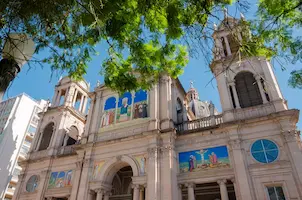
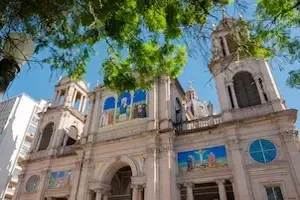
Create script for the card items and start styling them

diff --git a/chamber/scripts/discover.js b/chamber/scripts/discover.js
@@ -1,3 +1,51 @@
 import { interestItems } from "../data/interest-items.mjs";
 
-console.log(interestItems);
+// console.log(interestItems);
+
+const itemCards = document.querySelector("#itemCards");
+
+function displayItems(itemsArray) {
+    itemsArray.forEach(element => {
+        console.log(element);
+
+        const title = document.createElement("h2");
+        title.textContent = element.name;
+        
+        const figure = document.createElement("img");
+        figure.src = `images/${element.photo_url}`;
+        figure.alt = element.name;
+        figure.id = "teste";
+
+        const address = document.createElement("span");
+        address.textContent = element.address;
+
+        const paragraph = document.createElement("p");
+        paragraph.textContent = element.description;
+
+
+        const button = document.createElement("button");
+        button.textContent = "Learn More";
+
+
+
+        itemCards.appendChild(title);
+        itemCards.appendChild(figure);
+        itemCards.appendChild(address);
+        itemCards.appendChild(paragraph);
+        itemCards.appendChild(button);
+    });
+
+}
+
+displayItems(interestItems);
+
+// itemCards.innerHTML = `
+//     <section>
+//         <h2>Mario Quintana</h2>
+//         <img src="images/mario-quintana.webp" alt="">
+//         <span></span>
+//         <p></p>
+//         <button>learn more</button>
+//     </section>
+//     `;
+

diff --git a/chamber/discover.html b/chamber/discover.html
@@ -47,21 +47,8 @@
         </header>
         <main class="discover-page">
             <h1>Discover</h1>
-            <div>
-                <section>
-                    <h2></h2>
-                    <img src="" alt="">
-                    <span></span>
-                    <p></p>
-                    <button>learn more</button>
-                </section>
-                <section></section>
-                <section></section>
-                <section></section>
-                <section></section>
-                <section></section>
-                <section></section>
-                <section></section>
+            <div id="itemCards">
+                <!-- <img href="images/" alt="Alternative Description" loading="lazy" width="200" height="200"> -->
             </div>
         </main>
 

diff --git a/chamber/styles/small.css b/chamber/styles/small.css
@@ -1060,10 +1060,10 @@ input[type=submit]:hover {
 
 .discover-page > div {
     margin: 0 auto;
-    display: flex;
-    flex-direction: column;    
+    /* display: flex;
+    flex-direction: column;     */
     
-    justify-content: space-around;
-    align-items: center;
-    /* border: 2px dashed blue; */
+    /* justify-content: space-around;
+    align-items: center; */
+    border: 2px dashed blue;
 }
